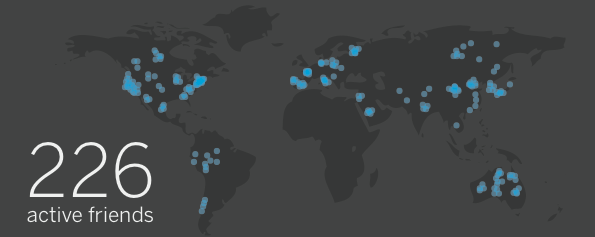
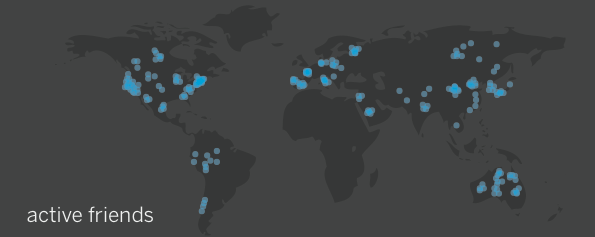
tweaking for release.  comments added to post list

diff --git a/frontend/static/superbowl.js b/frontend/static/superbowl.js
@@ -28,7 +28,7 @@ function runFacebookRequest(response) {
 	} else {
 		//button.innerHTML="<img src=\"http://who.deleted.me/res/login-button.png\" />";
 		//user is not connected to your app or logged out
-		$('#user-info').innerHTML('User is not connected or is logged out');
+		//$('#user-info').innerHTML('User is not connected or is logged out');
 	}
 }
 //------------------------------------------------------------------------------
@@ -80,28 +80,34 @@ function processFeed(data){
     }
     else {
         // allPosts = allPosts.concat(data);
-        patsLikeCount      += data['patriots']['like_count'];
-        patsCommentCount   += data['patriots']['comment_count'];
-        giantsLikeCount    += data['giants']['like_count'];
-        giantsCommentCount += data['giants']['comment_count'];
+        patsLikeCount      += data.patriots.like_count;
+        patsCommentCount   += data.patriots.comment_count;
+        giantsLikeCount    += data.giants.like_count;
+        giantsCommentCount += data.giants.comment_count;
 		console.log('check');
 
         udpateTeamStatsView();
 		addComments(data);
         console.log('Success!\n');
-        // FB.api(response.paging.next.slice(27), processFeedResponse);
+
+		$('#active_friends').text(data.active_friends.count);
     }
 
 }
 
 function addComments(data)
 {
-	$.each(data.giants.posts, function(i, value){
+	$.each(data.giants.statuses, function gc(i, value){
 		appendCommentString(value, '#giant_comments');
-		
+		if ('comments' in value && 'data' in value.comments){
+			$.each(value.comments.data, gc)
+		}
 	});
-	$.each(data.patriots.statuses, function(i, value){
+	$.each(data.patriots.statuses, function pc(i, value){
 		appendCommentString(value, '#patriot_comments');		
+		if ('comments' in value && 'data' in value.comments){
+			$.each(value.comments.data, pc)
+		}
 	});
 
 }

diff --git a/frontend/static/superbowl.htm b/frontend/static/superbowl.htm
@@ -32,9 +32,15 @@
         </div>
         <div class="countdown">T-1 Days</div>
     </div>
-    <div id="grass"> </div>
+    <div id="grass"> 
+		<div id="title" class="header">Superbowl XLVI</div>
+		<!--<br />
+		<div id="score" class="header">Giants: 0 - Patriots: 0</div>
+		-->
+	</div>
 	<div id="map">
 		<img src="/static/images/color-map.png" alt="map of users" />
+		<div id="active_friends">126</div>
 	</div>
     <div id="stats"> </div>
 
@@ -97,7 +103,7 @@
 </div>
     <div id="fb_login_div">
 		<div id="fb_login_inner">
-        	<div class="fb-login-button" show-faces="true" scope="email,user_checkins,read_stream,offline_access,publish_stream">
+        	<div class="fb-login-button" show-faces="true" scope="email,read_stream">
             	Login with Facebook
         	</div>
 		</div>

diff --git a/frontend/static/styles/main.css b/frontend/static/styles/main.css
@@ -241,3 +241,28 @@ div#grass {
 
 
 }
+#grass div.header {
+	color: white;
+	float: left;
+	margin: 6px 28px;
+	clear: both;
+}
+#grass #title {
+	font-size: 25pt;
+	margin-left: 42px;
+	margin-top: 15px;
+}
+#grass #score {
+	font-size: 15px;
+	margin-left:49px;
+	margin-top: 0px;
+
+}
+#map #active_friends {
+	color: white;
+	float: left;
+	font-size: 46pt;
+	position: relative;
+	top: -72px;
+	left: 51px;
+}

diff --git a/frontend/superbowl.py b/frontend/superbowl.py
@@ -10,6 +10,7 @@ from threading import Thread
 from time import sleep
 from processor import *
 from ArrayProcessor import ArrayProcessor as ap
+from collections import Counter
 
 class Superbowl(Processor):
 	
@@ -27,19 +28,19 @@ class Superbowl(Processor):
 	
 	def getProcessed(self):
 
-		all_posts = self.g.getHome()
+		all_posts = self.g.getHome(1000, False)
 
 		# key terms
-		pat_keywords = [' pats', ' patriots', ' new england']
+		pat_keywords = [' pats', ' patriots']
 		# stars
-		pat_keywords.extend(['brady', 'gronkowski', 'ochocinco', ' welker', 'belichick'])
+		pat_keywords.extend(['brady', 'gronkowski', 'ochocinco', 'belichick', 'superbowl', 'super bowl', 'football'])
 		#all active players
 		#pat_keywords.extend(['aiken', 'anderson', 'arrington', 'brace', 'brady', 'branch', 'brown', 'cannon', 'chung', 'connolly', 'deaderick', 'edelman', 'ellis', 'faulk', 'fletcher', 'gostkowski', 'green-ellis', 'gronkowski', 'guyton', 'hernandez', 'hoyer', 'ihedigbo', 'jone    s', 'koutouvides', 'light', 'love', 'mallett', 'mankins', 'mayo', 'mccourty', 'mcdonald', 'mesko', 'molden', 'moore', 'ninkovich', 'oc    hocinco', 'polite', 'ridley', 'slater', 'solder', 'spikes', 'thomas', 'underwood', 'vereen', 'vollmer', 'warren', 'waters', 'welker', 'wendell', 'white', 'wilfork', 'williams', 'woodhead'])
 
 		#key terms
-		giant_keywords = ['giants', 'new york', ' ny']
+		giant_keywords = ['giants']
 		# stas
-		giant_keywords.extend(['coughlin', 'manning', 'bradshaw', 'diehl ', ' snee', ' baas ', ' canty', 'webster', ' rolle'])
+		giant_keywords.extend(['manning', 'coughlin', 'superbowl', 'super bowl', 'football'])
 		#giant_keywords.extend(['amukamara', 'baas', 'ballard', 'barden', 'beckum', 'bernard', 'blackburn', 'blackmon', 'boley', 'boothe', 'bradshaw', 'brewer', 'canty', 'carr', 'cordle', 'cruz', 'deossie', 'diehl', 'grant', 'herzlich', 'hynoski', 'jacobs', 'jernigan', 'jones', 'joseph', 'kennedy', 'kiwanuka', 'manning', 'manningham', 'martin', 'mckenzie', 'nicks', 'pascoe', 'paysinger', 'petrus', 'phillips', 'pierre-paul', 'rolle', 'ross', 'sash', 'scott', 'snee', 'thomas', 'tollefson', 'trattou', 'tuck', 'tynes', 'ugoh', 'umenyiora', 'ware', 'weatherford', 'webster', 'williams', 'bing', 'brown', 'capers', 'depalma', 'hendricks', 'hopkins', 'stanback', 'tracy', 'andrews', 'austin', 'beatty', 'clayton', 'coe', 'goff', 'hixon', 'sintim', 'thomas', 'tryon'])
 		
 		#sort by likes
@@ -75,13 +76,24 @@ class Superbowl(Processor):
 		response['patriots']['comment_count'] = ap(pat_photos).countComments() + ap(pat_posts).countComments()
 
 		response['giants'] = {}
-		response['giants']['posts'] = giant_posts
+		response['giants']['statuses'] = giant_posts
 		response['giants']['photos'] = giant_photos
 		response['giants']['users'] = giant_users
 		response['giants']['like_count'] = ap(giant_photos).countLikes() + ap(giant_posts).countLikes()
 		response['giants']['comment_count'] = ap(giant_photos).countComments() + ap(giant_posts).countComments()
+
+		#count active friends
+		active_friends = []
+		for u in pat_users: active_friends.append(u['id'])
+		for u in giant_users: active_friends.append(u['id'])
 		
-		response['friends'] = {'count': 0}
+		for p in all_posts:
+			if 'comments' in p and 'data' in p['comments']:
+				for c in p['comments']['data']:
+					active_friends.append(c['from']['id'])
+		active_friend_count = len(Counter(active_friends))
+
+		response['active_friends'] = {'count': active_friend_count}
 
 		#dump data into mongo
 		self.db.users.insert({'username': self.g.getUsername(), 

diff --git a/frontend/grabber.py b/frontend/grabber.py
@@ -52,7 +52,7 @@ class Grabber(object):
 		return []
 
 
-	def __getAllExtended(self, endpoint, chunksize=25, fromTime=getFromTime()):
+	def __getAllExtended(self, endpoint, chunksize=25, fromTime=getFromTime(), doPaging=True):
 		print 'getting /' + endpoint
 		home_all = []
 		
@@ -63,7 +63,7 @@ class Grabber(object):
 			filtered = self.__filter_dates(home, fromTime)
 			home_all.extend(filtered)
 			
-			if len(filtered)!=len(home) or len(home)==0:
+			if len(filtered)!=len(home) or len(home)==0 or not doPaging:
 				break
 			print '...'
 			home_raw = self.__getFbObj(url=home_raw['paging']['next'])
@@ -71,12 +71,14 @@ class Grabber(object):
 			n_requests = n_requests + 1
 		
 		print str(n_requests) + ' requests were made totalling ' + str(len(home_all)) + ' items'
-		start = getTime(home_all[1]['updated_time'])
-		stop = getTime(home_all[-1]['updated_time'])
-		delta = start-stop
+		
+		if len(home_all)>0:
+			start = getTime(home_all[1]['updated_time'])
+			stop = getTime(home_all[-1]['updated_time'])
+			delta = start-stop
 
-		print 'oldest request was at: ' + str(start) + ' to: ' + str(stop)
-		print str(delta)
+			print 'oldest request was at: ' + str(start) + ' to: ' + str(stop)
+			print str(delta)
 		
 		return home_all
 	
@@ -109,8 +111,8 @@ class Grabber(object):
 		checkins = self.__getFbObj(self.getUsername() + '/checkins')
 		return checkins['data']
 
-	def getHome(self):
-		return self.__getAllExtended('home', 100)
+	def getHome(self, chunksize=100, doPaging=True):
+		return self.__getAllExtended('home', chunksize, doPaging=doPaging)
 	def getFeed(self):
 		return self.__getAllExtended('feed', 100, fromTime=datetime.now() - timedelta(days=365))
 	

diff --git a/frontend/ArrayProcessor.py b/frontend/ArrayProcessor.py
@@ -34,6 +34,8 @@ class ArrayProcessor(object):
 		...]
 	"""
 	def groupByUid(self, return_posts=True):
+		if len(self.arr)==0:
+			return []
 		post_arr = sorted(self.arr, key=lambda(i): i['from']['id'])
 		posts_uid = []
 		temp = []
@@ -94,7 +96,7 @@ class ArrayProcessor(object):
 			if searchComments:
 				if 'comments' in post and 'data' in post['comments']:
 					for c in post['comments']['data']:
-						search += c['message']
+						search += c['message'].lower()
 
 			for k in keywords:
 				if k in search:
